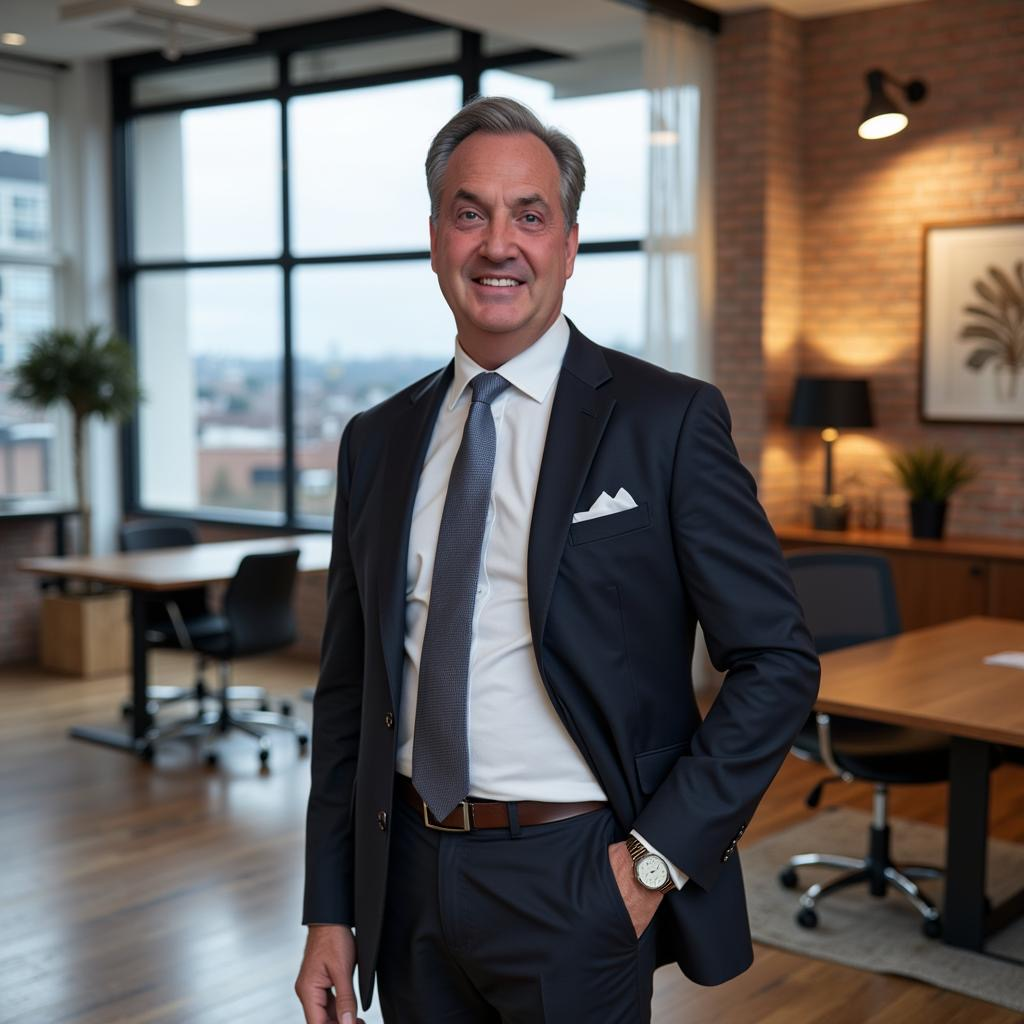
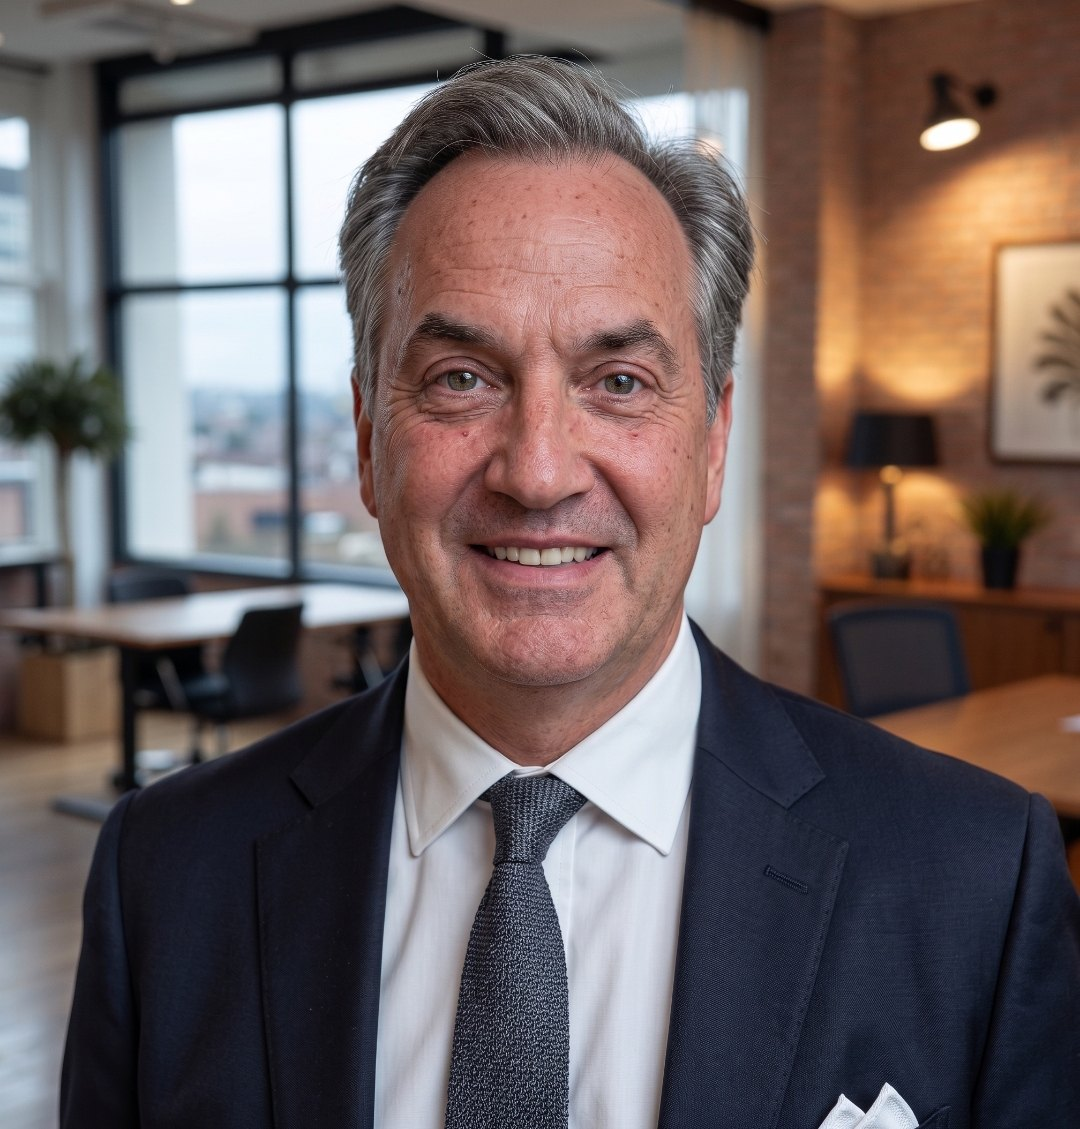
Replace team headshots: Rob Schell, Lauren Burgess, Emily Everts
- New high-quality portraits at 1080px, optimized JPEG (~150-200KB each)
- Converted Emily's image from PNG to JPEG (1.6MB -> 200KB)
- Updated all references in index.html and team.html

diff --git a/index.html b/index.html
@@ -481,7 +481,7 @@
       <div class="team-card" data-animate data-delay="3">
         <div class="team-card-inner">
           <div class="team-card-front">
-            <img src="assets/team/emily-everts.png" alt="Emily Everts, Chief Operating Officer" loading="lazy">
+            <img src="assets/team/emily-everts.jpeg" alt="Emily Everts, Chief Operating Officer" loading="lazy">
             <div class="team-front-info">
               <div class="team-name">Emily Everts</div>
               <div class="team-title">Chief Operating Officer</div>

diff --git a/team.html b/team.html
@@ -414,7 +414,7 @@
       <div class="team-member-grid" data-animate>
         <div class="team-photo-col">
           <div class="team-photo-wrap">
-            <img src="assets/team/emily-everts.png" alt="Emily Everts, Chief Operating Officer">
+            <img src="assets/team/emily-everts.jpeg" alt="Emily Everts, Chief Operating Officer">
             <div class="team-photo-badge">
               <div class="team-photo-name">Emily Everts</div>
               <div class="team-photo-title">Chief Operating Officer</div>
